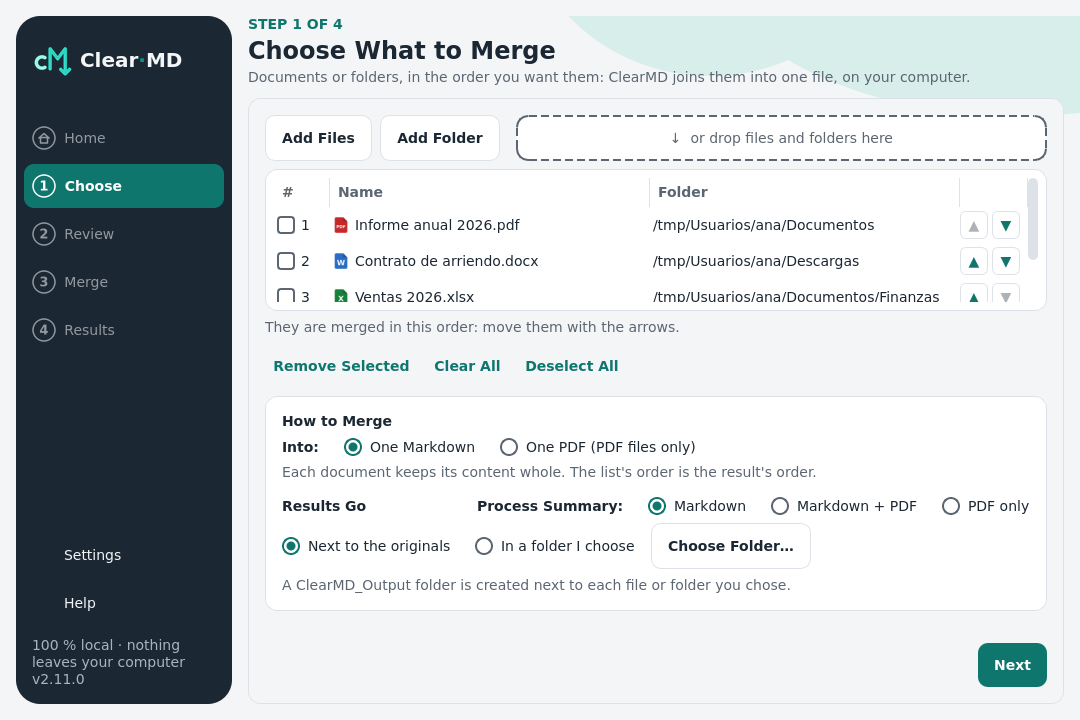
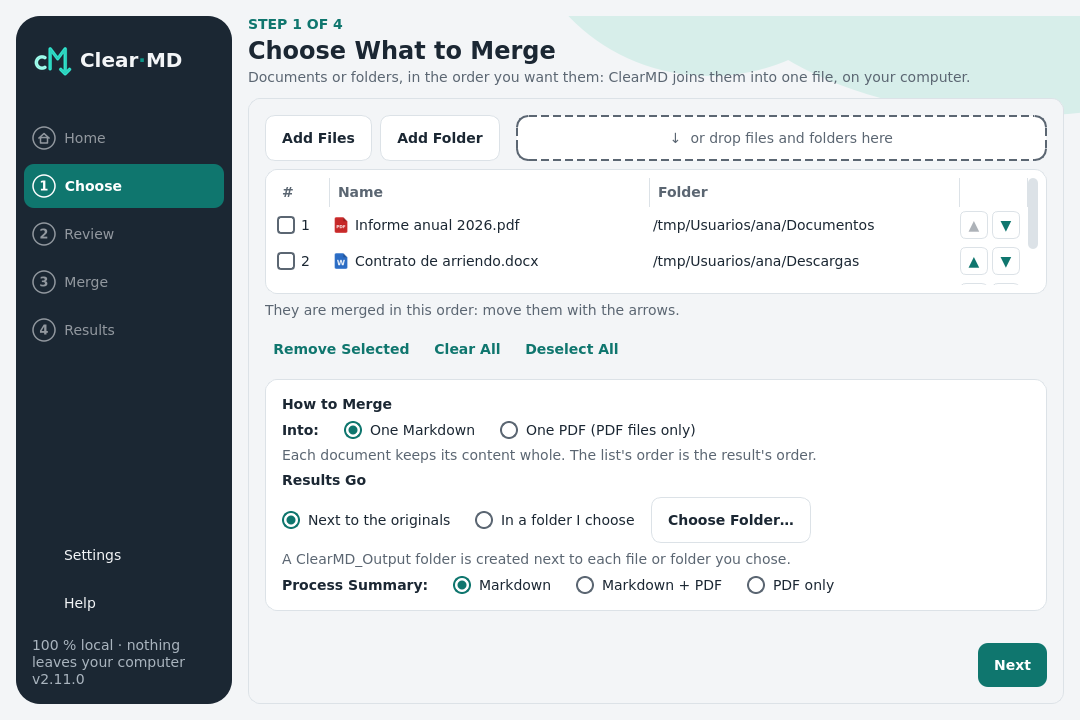
fix(038): the Qt window's longer "Process Summary" label is whole in Split and Merge (its own line); screenshots

diff --git a/src/clearmd/frontend/pyside/components/output_card.py b/src/clearmd/frontend/pyside/components/output_card.py
@@ -44,7 +44,7 @@ class OutputCard:
         self.merge = MergeChoice(parent, text=text, on_split=on_split)
         self.merge.widget.hide()
         output_layout.addWidget(self.merge.widget)
-        heading = self._heading = QHBoxLayout()
+        heading = QHBoxLayout()
         title = label("strong")
         text(title, "gui.main.output_title")
         heading.addWidget(title)
@@ -81,13 +81,14 @@ class OutputCard:
         self.output_label = label("muted", wrap=True)
         output_layout.addWidget(self.output_label)
 
-        self._summary_row = QWidget()  # its own line; for Split on the heading, as the images
+        # The summary keeps its own line for every tool, so its label is never cut (038).
+        self._summary_row = QWidget()
         summary = QHBoxLayout(self._summary_row)
         summary.setContentsMargins(0, 0, 0, 0)
         summary.setSpacing(SPACE)
-        summary_title = label("strong")
-        text(summary_title, "gui.main.summary_title")
-        summary.addWidget(summary_title)
+        self.summary_title = label("strong")
+        text(self.summary_title, "gui.main.summary_title")
+        summary.addWidget(self.summary_title)
         self._summary = QButtonGroup(parent)
         self.summary_md = radio_button(self._summary, lambda: on_summary("markdown"))
         self.summary_pdf = radio_button(self._summary, lambda: on_summary("markdown_pdf"))
@@ -125,7 +126,6 @@ class OutputCard:
         for tool, block in ((Tool.SPLIT, self.split), (Tool.MERGE, self.merge)):
             block.widget.setVisible(choice.tool is tool)
             block.show(choice)
-        self._place_summary(on_heading=not convert)
 
     def hold(self, width: int) -> None:
         """Never shorter than its wrapped lines need at ``width``: Qt's box layout would squeeze
@@ -133,15 +133,3 @@ class OutputCard:
         layout = self.frame.layout()
         if layout is not None:
             self.frame.setMinimumHeight(layout.totalHeightForWidth(width))
-
-    def _place_summary(self, *, on_heading: bool) -> None:
-        """For Split and Merge the summary goes up to the heading, where the images are for
-        Convert: the block above takes the line it frees (024, 026; the window at 1080 x 720)."""
-        source, target = self._summary_line, self._heading
-        if on_heading:
-            target.removeWidget(self._summary_row)  # no-op unless it is there
-            source.removeWidget(self._summary_row)
-            target.addWidget(self._summary_row)
-        else:
-            target.removeWidget(self._summary_row)
-            source.insertWidget(0, self._summary_row)

diff --git a/src/clearmd/frontend/pyside/components/split_choice.py b/src/clearmd/frontend/pyside/components/split_choice.py
@@ -24,6 +24,7 @@ from clearmd.frontend.design.metrics import SPACE
 from clearmd.frontend.presenter.models import OutputChoice
 from clearmd.frontend.pyside.components.fold_row import FoldRow
 from clearmd.frontend.pyside.components.primitives import label, radio_button
+from clearmd.i18n import Catalog
 
 DIGIT_WIDTH = 9  # a digit at 14 px, with room
 Text = Callable[[QLabel | QPushButton | QRadioButton, str], None]
@@ -100,15 +101,18 @@ class SplitChoice:
             text(radio, f"gui.split.keep_{value}")
             heading.addSpacing(SPACE)
             heading.addWidget(radio)
-        for key in ("gui.split.note", "gui.split.hint"):
-            line = label("muted", wrap=True)
-            text(line, key)
-            layout.addWidget(line)
+        # The note and the hint in one paragraph: one line less, so the step fits 1080 x 720 with
+        # the summary on its own line (038); its words come with apply_language.
+        self.note = label("muted", wrap=True)
+        layout.addWidget(self.note)
         self.by_parts, self.by_pages = self.cuts["parts"], self.cuts["pages"]
         self.parts, self.pages = self.boxes["parts"], self.boxes["pages"]
         self.by_words, self.words = self.cuts["words"], self.boxes["words"]
         pairs = ((self.cuts[cut], self.boxes[cut]) for cut, *_ in CUTS)
         self.controls = (*(w for pair in pairs for w in pair), *self.keep.values())
+
+    def apply_language(self, catalog: Catalog) -> None:
+        self.note.setText(f"{catalog.text('gui.split.note')} {catalog.text('gui.split.hint')}")
 
     def show(self, choice: OutputChoice) -> None:
         """What the presenter keeps; setting the numbers sends nothing back."""

diff --git a/tests/acceptance/test_038_windows_pyside.py b/tests/acceptance/test_038_windows_pyside.py
@@ -1,10 +1,14 @@
 """Feature 038 in the PySide6 window (audit v2): closing the window during a task asks once, and
 only then (AC-06); an unexpected error during a task lands on Results with "Copy Details" and the
-results folder (AC-04). Strings come from the catalog."""
+results folder (AC-04); the longer summary label is whole (AC-09). Strings come from the
+catalog."""
 
 from collections.abc import Callable
+from dataclasses import replace
 from pathlib import Path
 
+import pytest
+from PySide6.QtCore import QPoint
 from support.gui_fakes import FakeBackend, planned
 from support.pyside_acceptance import (
     QUIET,
@@ -94,3 +98,19 @@ def test_ac_04_an_error_during_a_task_shows_results(qt_window: Window, tmp_path:
     assert app.actions.primary.isEnabled()
     held.gate.set()
     pump(app, seconds=0.3)
+
+
+@pytest.mark.parametrize("size", [(1080, 720), (800, 600)])
+@pytest.mark.parametrize("tool", [Tool.CONVERT, Tool.SPLIT, Tool.MERGE])
+def test_ac_09_the_longer_summary_label_is_whole(
+    qt_window: Window, tool: Tool, size: tuple[int, int]
+) -> None:
+    app = qt_window(FakeBackend(settings=replace(QUIET, language="es")))
+    app.window.resize(*size)
+    app.presenter.choose_tool(tool)
+    pump(app, seconds=0.2)
+    title = app.main.summary_title
+    assert title.text() == load_catalog("es").text("gui.main.summary_title")
+    assert title.isVisible() and title.width() >= title.sizeHint().width()  # not clipped
+    row = app.main.summary_md
+    assert title.mapTo(app.window, QPoint(0, 0)).y() <= row.mapTo(app.window, QPoint(0, 0)).y() + 4

diff --git a/src/clearmd/frontend/pyside/views/choose.py b/src/clearmd/frontend/pyside/views/choose.py
@@ -78,7 +78,7 @@ class ChooseView(QWidget):
         self.in_folder = output.in_folder
         self.pick = output.pick
         self.output_label = output.output_label
-        self.summary_md = output.summary_md
+        self.summary_title, self.summary_md = output.summary_title, output.summary_md
         self.summary_pdf = output.summary_pdf
         self.summary_pdf_only = output.summary_pdf_only
         self.images_omit = output.images_omit
@@ -132,6 +132,7 @@ class ChooseView(QWidget):
             widget.setText(catalog.text(key))
         self.drop_zone.show_text(catalog.text("gui.main.drop"))
         self._inputs_card.apply_language(catalog)
+        self.split.apply_language(catalog)
         self.inputs.apply_headings(
             [catalog.text("gui.main.column_name"), catalog.text("gui.main.column_location")],
             catalog.text("gui.main.empty"),

diff --git a/src/clearmd/frontend/pyside/components/merge_choice.py b/src/clearmd/frontend/pyside/components/merge_choice.py
@@ -57,7 +57,6 @@ class MergeChoice:
         note = label("muted", wrap=True)
         text(note, "gui.merge.note")
         layout.addWidget(note)
-        layout.addSpacing(SPACE)  # apart from the results' heading under it
         self.controls = tuple(self.into.values())
 
     def show(self, choice: OutputChoice) -> None:
